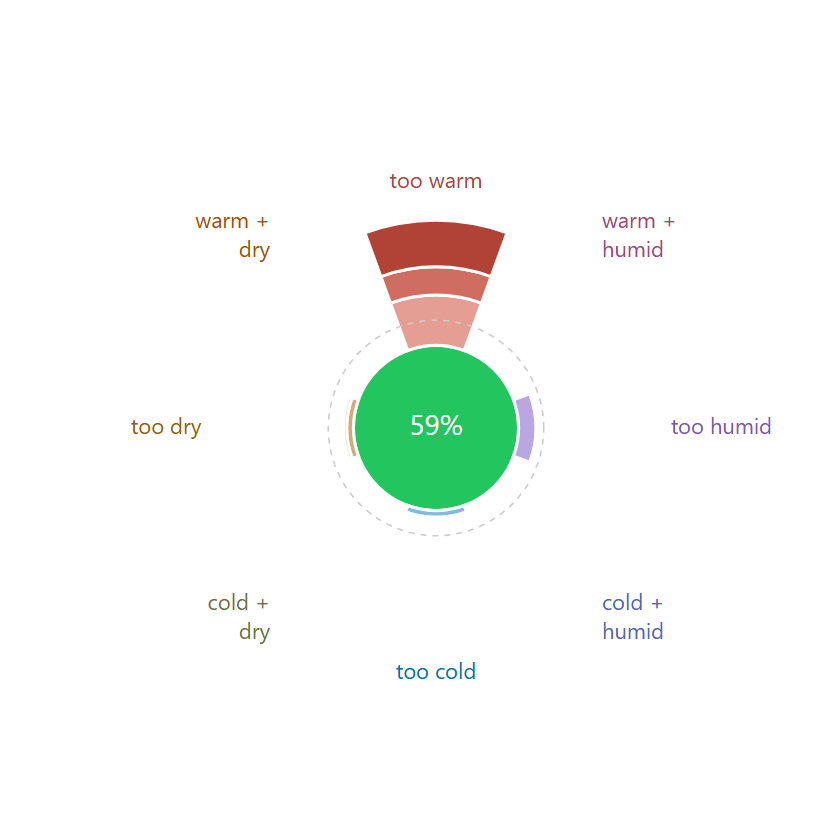
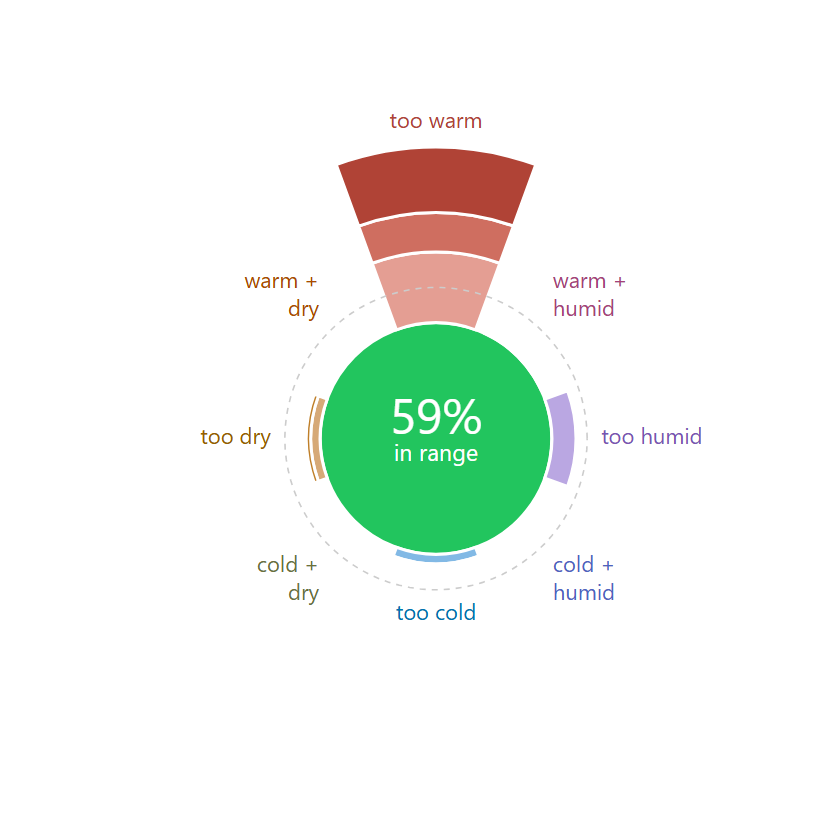
Branding: re-render with the new compass (scale="fit") and English altitude label

diff --git a/scripts/social-preview.html b/scripts/social-preview.html
@@ -16,7 +16,7 @@ p{margin:0;font-size:27px;line-height:1.38;color:#b7c4d3;font-weight:500;max-wid
 .shot{position:absolute;border-radius:16px;box-shadow:0 30px 70px rgba(0,0,0,.55);background:#fff}
 .s1{right:110px;top:36px;width:490px;transform:rotate(-3deg)}
 .s2{right:24px;top:318px;width:270px;height:270px;transform:rotate(3deg)}
-.crop{overflow:hidden}.crop img{width:140%;margin:-20% 0 0 -20%;display:block}
+.crop{overflow:hidden}.crop img{width:140%;margin:-7% 0 0 -20%;display:block}
 .s3{right:262px;top:342px;width:380px;transform:rotate(-1.5deg)}
 </style></head><body>
 <div class="left">

diff --git a/scripts/render_branding.py b/scripts/render_branding.py
@@ -44,8 +44,7 @@ def plot_pages():
                               height=560)
 
     dist = comfort_compass_distribution(room.set_index("timestamp"), temp_band=(8, 20), hum_band=(35, 70))
-    compass = plot_comfort_compass(dist, show_legend=False, fixed_scale=False, height=420)
-    compass.update_layout(width=420, margin=dict(l=10, r=10, t=10, b=10))
+    compass = plot_comfort_compass(dist, show_legend=False, scale="fit", width=420, height=420)
 
     pes = pd.read_csv(DATA / "bldg_engy_sig_pes.csv")
     signature = plot_energy_signature_pes(pes, title="Proposed Energy Signature")
